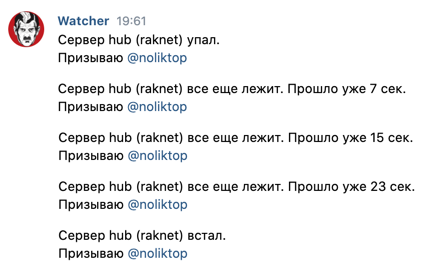
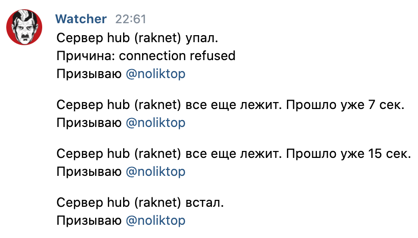
feat: добавил вывод причины неудачного подключения к серверу fix: добавил фикс подключения к rcon серверу

Changed region(s): [[0.0, 0.0294, 0.9641, 0.5882], [0.1244, 0.6176, 0.9952, 0.7647], [0.1244, 0.8235, 0.5287, 0.9706]]

diff --git a/pkg/watch/watch.go b/pkg/watch/watch.go
@@ -16,7 +16,7 @@ func Watch(serv server.Server) {
 
 		if serv.IsMarkedAsWorking() {
 			if err != nil {
-				serverWentDown(serv)
+				serverWentDown(serv, err)
 			}
 			time.Sleep(time.Duration(timeout) * time.Second)
 		} else {
@@ -38,10 +38,10 @@ func shouldReportAgain(server server.Server) bool {
 	return server.GetOffTime()&0b111 == 0b111 && (server.GetOffTime() < 30 || rand.Intn(4) == 1)
 }
 
-func serverWentDown(server server.Server) {
+func serverWentDown(server server.Server, err error) {
 	server.MarkIsWorking(false)
-	log.WithField("server", server.GetFormattedName()).Info("Server went down")
-	notification.ServerWentDown(server)
+	log.WithField("server", server.GetFormattedName()).WithField("error", err).Info("Server went down")
+	notification.ServerWentDown(server, err)
 }
 
 func serverStartedUp(server server.Server) {

diff --git a/pkg/notification/vk.go b/pkg/notification/vk.go
@@ -41,11 +41,12 @@ func (v *Vk) GetName() string {
 	return v.name
 }
 
-func (v *Vk) NotifyServerWentDown(server server.Server) error {
+func (v *Vk) NotifyServerWentDown(server server.Server, err error) error {
 	message := fmt.Sprintf(
-		`Сервер %s упал.
+		`Сервер %s упал. 
+Причина: %s
 Призываю %s`,
-		server.GetFormattedName(), server.GetMentionsText(),
+		server.GetFormattedName(), err.Error(), server.GetMentionsText(),
 	)
 
 	return v.sendMessage(message)

diff --git a/pkg/notification/notification.go b/pkg/notification/notification.go
@@ -26,11 +26,11 @@ func Add(notificationMethod Method) error {
 	return nil
 }
 
-func ServerWentDown(serv server.Server) {
+func ServerWentDown(serv server.Server, err error) {
 	for _, chat := range serv.GetChats() {
 		method := methods[chat]
 
-		err := method.NotifyServerWentDown(serv)
+		err := method.NotifyServerWentDown(serv, err)
 		if err != nil {
 			log.Error(err)
 		}

diff --git a/pkg/notification/method.go b/pkg/notification/method.go
@@ -7,7 +7,7 @@ type Method interface {
 
 	Init(name string, data map[string]interface{}) error
 
-	NotifyServerWentDown(server server.Server) error
+	NotifyServerWentDown(server server.Server, err error) error
 	NotifyServerStillIsDown(server server.Server) error
 	NotifyServerIsUp(server server.Server) error
 }

diff --git a/pkg/server/rcon_server.go b/pkg/server/rcon_server.go
@@ -31,6 +31,9 @@ func (s *RconServer) Init(data map[string]interface{}) error {
 func (s *RconServer) CheckConnection() (err error) {
 	if s.conn == nil {
 		s.conn, err = rcon.NewConnection(s.serverAddr, s.password)
+		if err != nil {
+			return err
+		}
 	}
 
 	_, err = s.conn.SendCommand(s.command)

diff --git a/README.md b/README.md
@@ -5,7 +5,7 @@ Watcher следит за указанными ему серверами. Есл
 Watcher умеет следить за **tcp**, **udp**, **rcon**, **raknet**, **minecraft**, **http** серверами.
 
 ![messages from watcher](watcher_is_watching_you.png)
----
+--
 
 ## Установка
 
